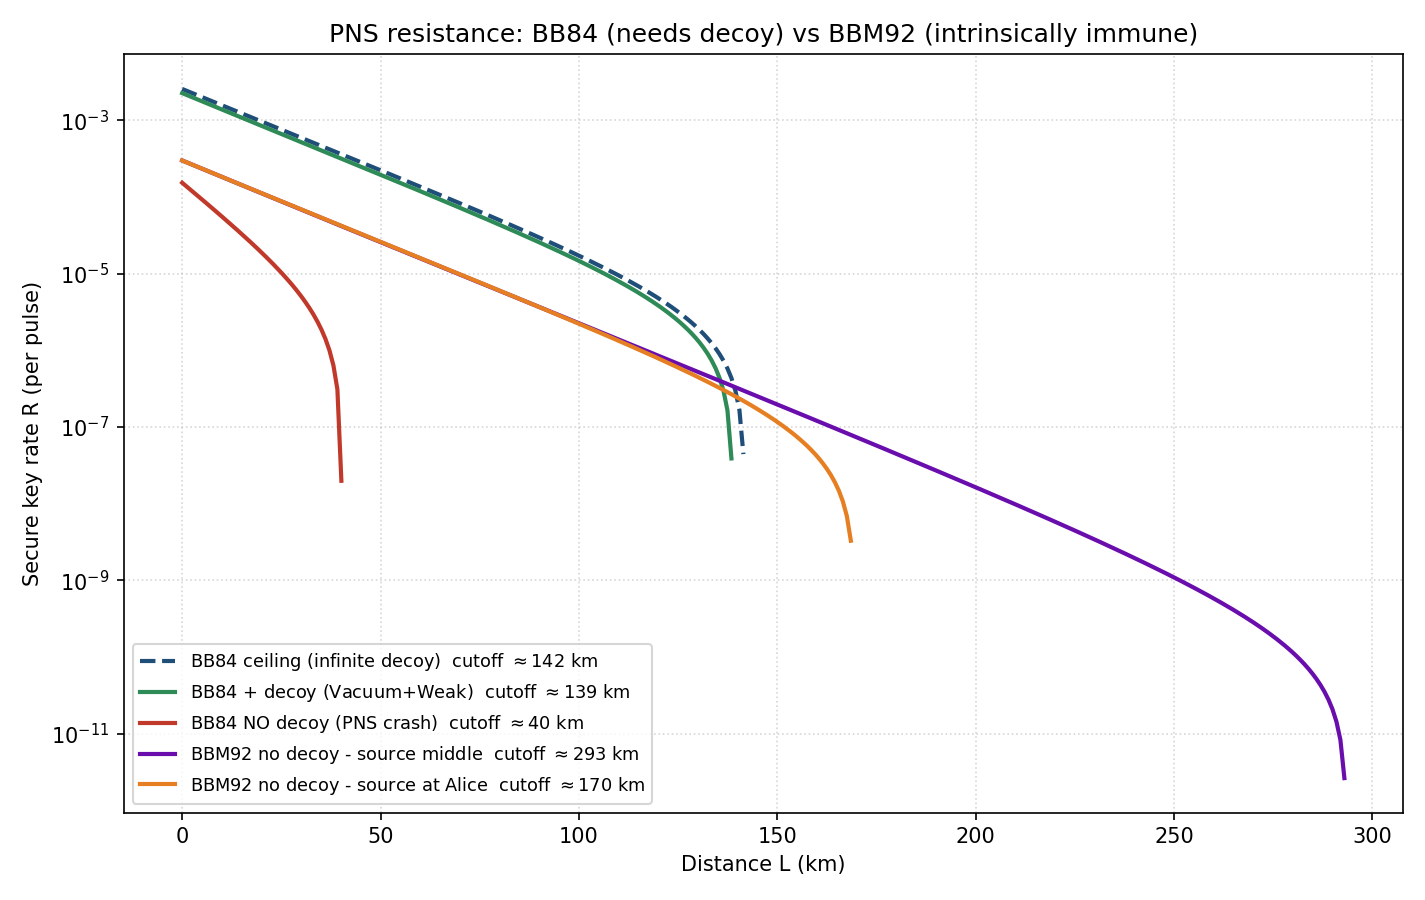
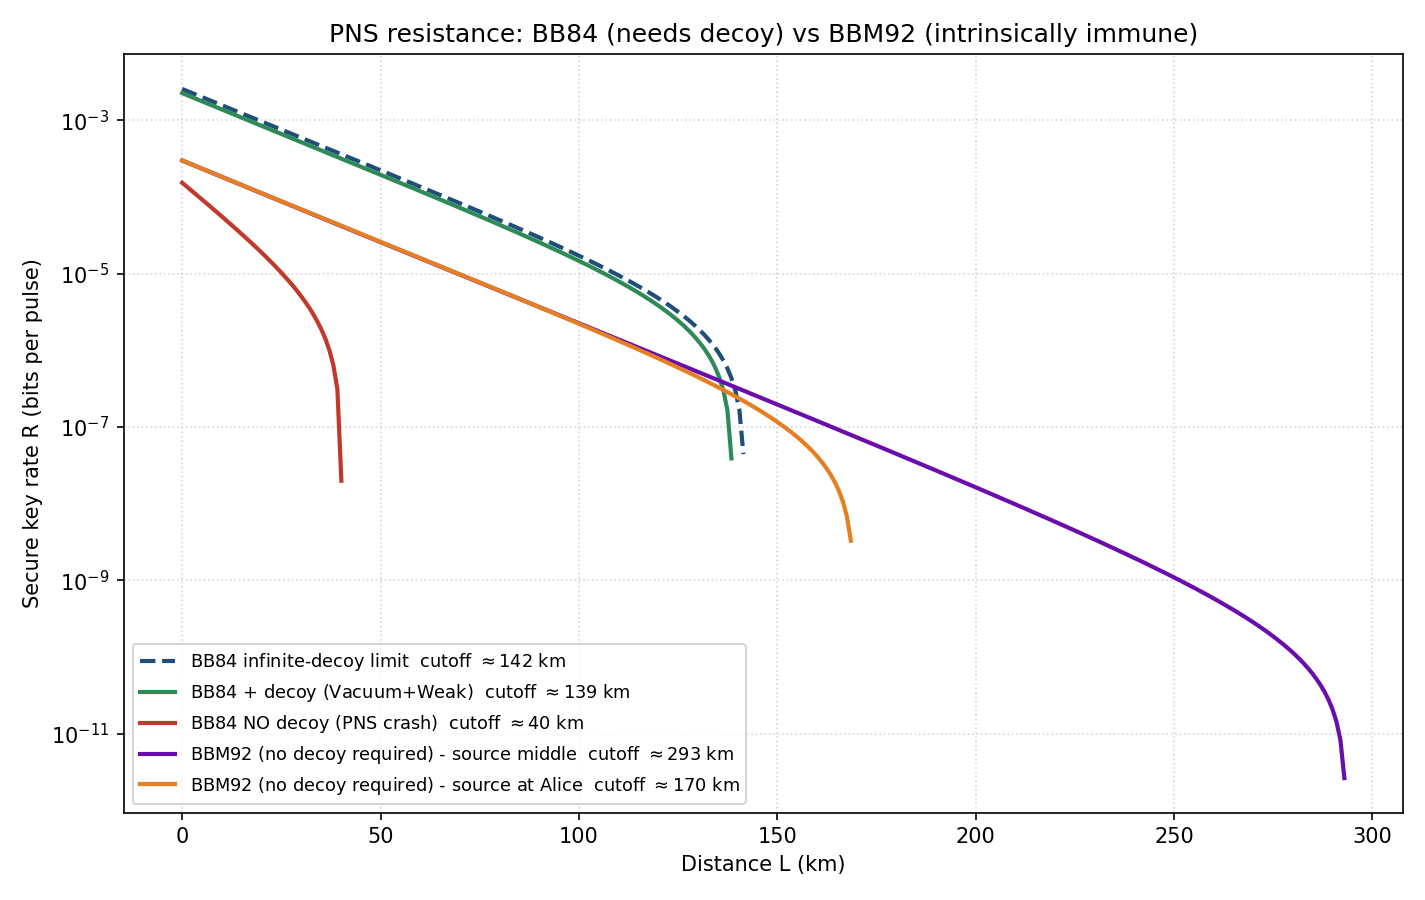
compare: drop E91 markers, clarify curve labels + y-units
E91 removed from the key-rate axis (S=2 is a Bell cutoff, not a
key-rate cutoff -- it now lives only in its own table). Relabel the
BB84 ceiling to 'BB84 infinite-decoy limit' (exact Y1/e1, avoids the
overloaded 'asymptotic'/'ceiling'), and the BBM92 curves to
'(no decoy required)' -- basis-independence, not a missing defense.
Y-axis units made explicit (bits per pulse). Curves/limits/colors
unchanged; cutoffs 141.9/138.8/40.2/293.5/169.5 km verified.

Changed region(s): [[0.1853, 0.8089, 0.5249, 0.9022], [0.0, 0.28, 0.0309, 0.6844], [0.1544, 0.7156, 0.4323, 0.7467]]

diff --git a/src/compare.py b/src/compare.py
@@ -63,11 +63,11 @@ if __name__ == "__main__":
     bbm92_ali = np.array([bbm92_key_rate(x, "alice") for x in L])
 
     curves = [
-        ("BB84 ceiling (infinite decoy)", bb84_ceiling, "#1f4e79", "--"),
+        ("BB84 infinite-decoy limit", bb84_ceiling, "#1f4e79", "--"),
         ("BB84 + decoy (Vacuum+Weak)", bb84_decoy, "#2e8b57", "-"),
         ("BB84 NO decoy (PNS crash)", bb84_nodecoy, "#c0392b", "-"),
-        ("BBM92 no decoy - source middle", bbm92_mid, "#6a0dad", "-"),
-        ("BBM92 no decoy - source at Alice", bbm92_ali, "#e67e22", "-"),
+        ("BBM92 (no decoy required) - source middle", bbm92_mid, "#6a0dad", "-"),
+        ("BBM92 (no decoy required) - source at Alice", bbm92_ali, "#e67e22", "-"),
     ]
 
     fig, ax = plt.subplots(figsize=(9.5, 6))
@@ -77,7 +77,7 @@ if __name__ == "__main__":
         ax.semilogy(L, _mask(R), color=color, ls=ls, lw=2, label=label + ctxt)
 
     ax.set_xlabel("Distance L (km)")
-    ax.set_ylabel("Secure key rate R (per pulse)")
+    ax.set_ylabel("Secure key rate R (bits per pulse)")
     ax.set_title("PNS resistance: BB84 (needs decoy) vs BBM92 (intrinsically immune)")
     ax.grid(True, which="both", ls=":", alpha=0.5)
     ax.legend(loc="lower left", fontsize=8.5)
@@ -87,4 +87,4 @@ if __name__ == "__main__":
 
     for label, R, _, _ in curves:
         c = _cutoff(L, R)
-        print(f"  {label:38s} cutoff ~ {c:.1f} km" if c else f"  {label}: no cutoff")
+        print(f"  {label:44s} cutoff ~ {c:.1f} km" if c else f"  {label}: no cutoff")
